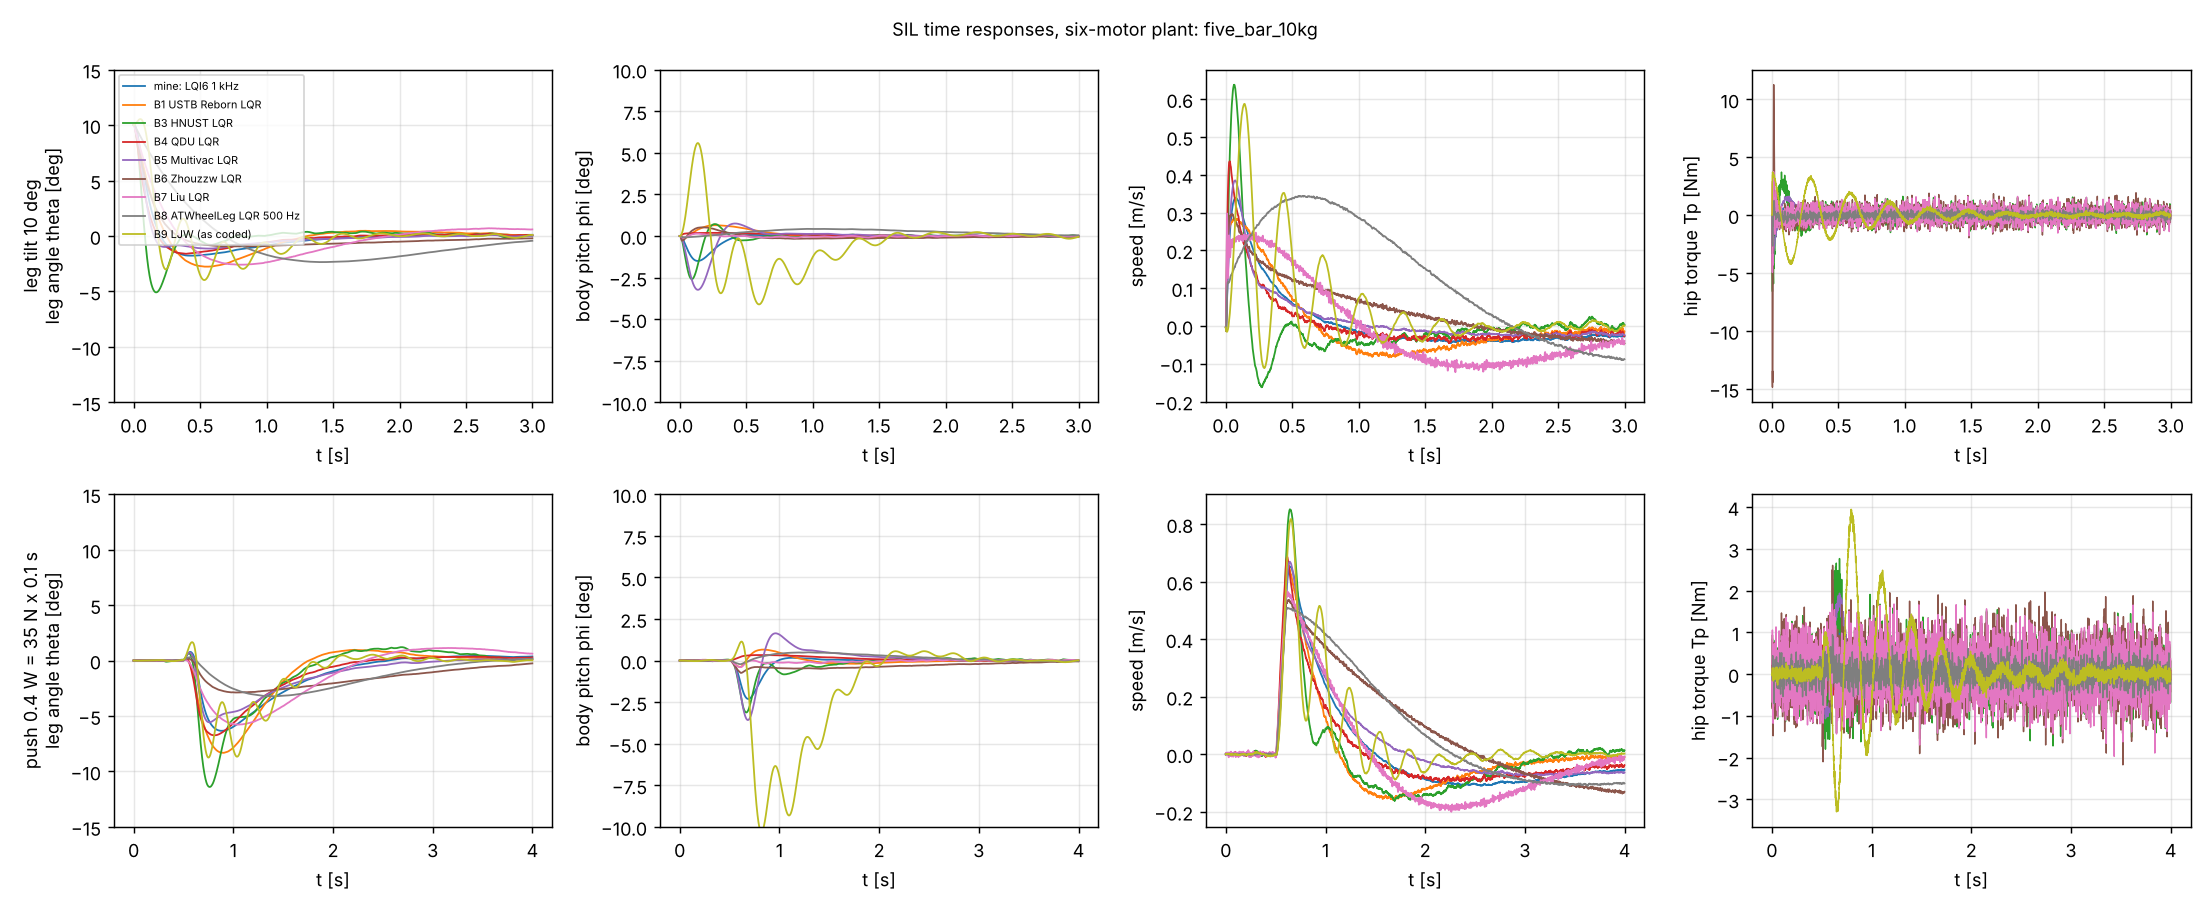
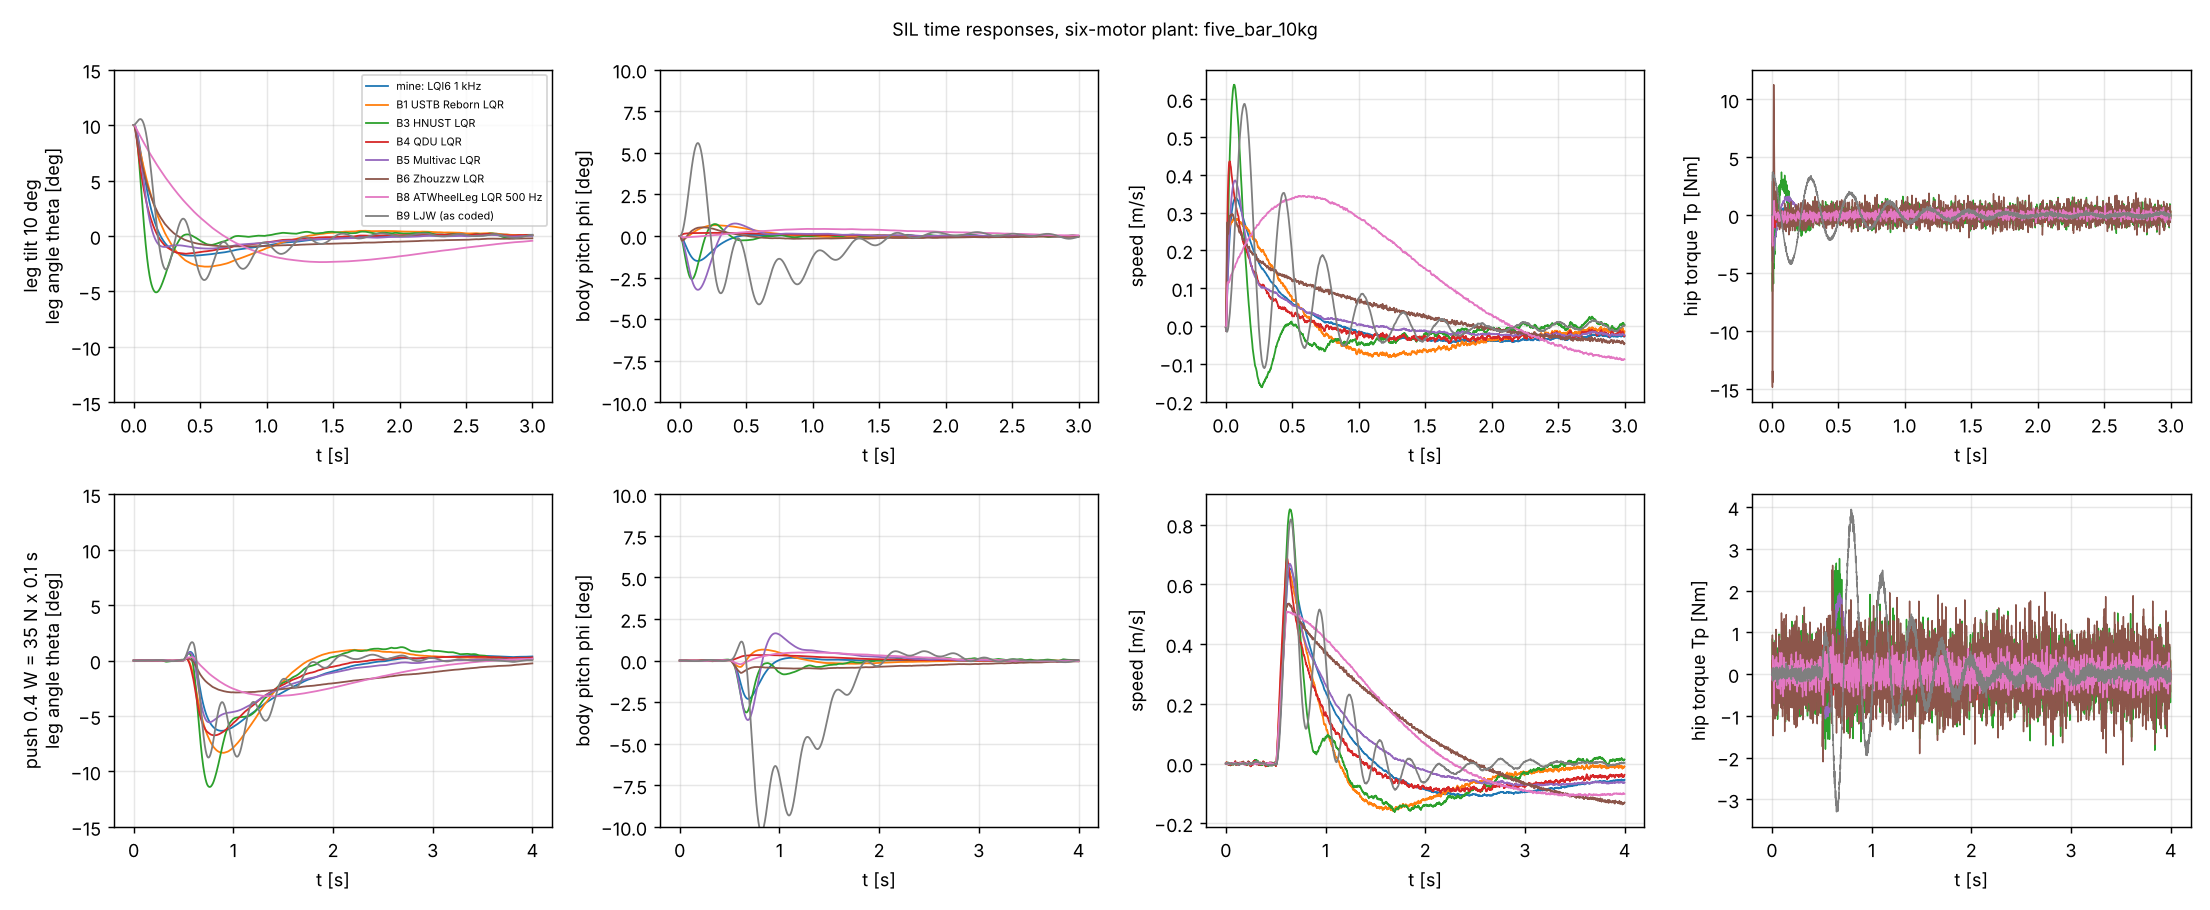
Report: drop B7 (LiuDingchuan, simulation-only) from the six-motor list, results and figures; keep its 15 kg plant
Claude-Session: https://claude.ai/code/session_0113ysMeAN3Lyk161zhY7Khb

diff --git a/balancing_robot_design/sim6/make_report6.py b/balancing_robot_design/sim6/make_report6.py
@@ -21,17 +21,16 @@ LABEL = {
     "qdu": "B4 QDU-Robomaster Wheelleg: 10상태/4출력 LQR, K(L_l,L_r) 2변수 2차",
     "multivac": "B5 Multivac11: 6상태 LQR(다리별), K(L0) 3차",
     "zhouzzw": "B6 Zhouzzw: 6상태 LQR(다리별), K(L) 3차, Q=diag(16000,…,70000,…)",
-    "liu": "B7 LiuDingchuan(Webots, 15 kg): 6상태 LQR, K(L0) 3차",
     "at": "B8 lyz1202dt ATWheelLeg: 6상태 LQR 500 Hz, 17점 게인 표",
     "ljw": "B9 LJW0401 (코드 그대로): 바퀴 T = 0.4×LQR 1행, 고관절 = CyberGear 위치 루프",
     "ljw_fullK": "B9' LJW0401 MATLAB K를 2×6 전체 상태 피드백으로 (가정; 펌웨어는 이렇게 안 씀)",
 }
 LABEL_EN = {"mine_lqi6": "mine: LQI6 1 kHz", "jerry": "B1 USTB Reborn LQR", "sky": "B2 Skythinker dLQR 5 ms", "hnust": "B3 HNUST LQR",
-            "qdu": "B4 QDU LQR", "multivac": "B5 Multivac LQR", "zhouzzw": "B6 Zhouzzw LQR", "liu": "B7 Liu LQR", "at": "B8 ATWheelLeg LQR 500 Hz",
+            "qdu": "B4 QDU LQR", "multivac": "B5 Multivac LQR", "zhouzzw": "B6 Zhouzzw LQR", "at": "B8 ATWheelLeg LQR 500 Hz",
             "ljw": "B9 LJW (as coded)", "ljw_fullK": "B9' LJW full K"}
-ORDER = ["mine_lqi6", "jerry", "sky", "hnust", "qdu", "multivac", "zhouzzw", "liu", "at", "ljw", "ljw_fullK"]
+ORDER = ["mine_lqi6", "jerry", "sky", "hnust", "qdu", "multivac", "zhouzzw", "at", "ljw", "ljw_fullK"]   # liu (B7) dropped from the report
 PLANT_TITLE = {"rm": "RM급 5절링크 로봇 (USTB Reborn 파라미터: 몸체 7.0 kg, 다리 1.9 kg, 바퀴 0.47 kg, r 76 mm, L0 0.20 m, 휠 6 Nm, 고관절 30 Nm)",
-               "liu": "Liu Webots 로봇 (몸체 12 kg, 다리 1.6 kg, 바퀴 6 kg, r 50 mm, L0 0.25 m, l = 0)",
+               "liu": "15 kg급 Webots 모델 (몸체 12 kg, 다리 1.6 kg, 바퀴 6 kg, r 50 mm, L0 0.25 m, l = 0)",
                "sky": "Skythinker 탁상 로봇 (몸체 0.33 kg, 다리 0.025 kg, 바퀴 0.25 kg, r 20 mm, L0 0.07 m, 휠 0.2 Nm, 고관절 0.3 Nm)",
                "small": "5 kg급 5절링크 가정 (몸체 3.0 kg, 다리 0.6 kg, 바퀴 1.3 kg, r 65 mm, L0 0.16 m, 휠 5 Nm, 고관절 12 Nm)",
                "large": "10 kg급 5절링크 가정 (몸체 6.5 kg, 다리 1.2 kg, 바퀴 1.3 kg, r 82.5 mm, L0 0.25 m, 휠 5 Nm, 고관절 24 Nm)"}
@@ -131,7 +130,7 @@ if __name__ == "__main__":
     md = "\n".join(out)
     open(os.path.join(HERE, "results6_tables.md"), "w").write(md); print(md)
     figdir = os.path.join(HERE, "..", "figures")
-    sel = ["mine_lqi6", "jerry", "hnust", "qdu", "multivac", "zhouzzw", "liu", "at", "ljw"]
+    sel = ["mine_lqi6", "jerry", "hnust", "qdu", "multivac", "zhouzzw", "at", "ljw"]
     for pk in ("rm", "small", "large"):
         if os.path.exists(os.path.join(HERE, f"results6_{pk}.json")):
             plot_responses(pk, sel, os.path.join(figdir, f"sil6_responses_{pk}.png")); print("plotted", pk)

diff --git a/balancing_robot_design/sim6/results6_tables.md b/balancing_robot_design/sim6/results6_tables.md
@@ -11,7 +11,6 @@
 | B4 QDU-Robomaster Wheelleg: 10상태/4출력 LQR, K(L_l,L_r) 2변수 2차 | 40.0 / 40.0 | 128 (1.4 W) | 0.99 / 68 / 0.6 / 12.5 | 5 | O / 0.02 | 0.199 / 0.203 | 1 | +++− |
 | B5 Multivac11: 6상태 LQR(다리별), K(L0) 3차 | 40.0 / 40.0 | 82 (0.9 W) | 1.67 / 48 / 2.2 / 8.9 | 15 | O / 0.04 | 0.091 / 0.217 | 1 | −−++ |
 | B6 Zhouzzw: 6상태 LQR(다리별), K(L) 3차, Q=diag(16000,…,70000,…) | 균형 불가 | | | | | | | |
-| B7 LiuDingchuan(Webots, 15 kg): 6상태 LQR, K(L0) 3차 | 27.5 / 10.0 | 55 (0.6 W) | 1.16 / 37 / 0.2 / 10.3 | 0 | O / 0.07 | 0.400 / 0.560 | 1 | +−+− |
 | B8 lyz1202dt ATWheelLeg: 6상태 LQR 500 Hz, 17점 게인 표 | 7.5 / 40.0 | 27 (0.3 W) | 1.31 / 28 / 1.5 / 8.4 | 10 | O / 0.03 | 0.044 / 0.106 | 1 | ++++ |
 | B9 LJW0401 (코드 그대로): 바퀴 T = 0.4×LQR 1행, 고관절 = CyberGear 위치 루프 | 40.0 / 40.0 | 64 (0.7 W) | 0.41 / 65 / 21.6 / 18.2 | 15 | O / 0.10 | 0.050 / 0.085 | 1 | ++−+ |
 | B9' LJW0401 MATLAB K를 2×6 전체 상태 피드백으로 (가정; 펌웨어는 이렇게 안 씀) | 40.0 / 40.0 | 46 (0.5 W) | 0.52 / 52 / 0.7 / 18.9 | 10 | O / 0.04 | 0.129 / 0.104 | 1 | ++++ |
@@ -26,7 +25,6 @@
 | B4 QDU-Robomaster Wheelleg: 10상태/4출력 LQR, K(L_l,L_r) 2변수 2차 | 40.0 / 40.0 | 128 (1.4 W) | 0.99 / 68 / 0.6 / 12.5 | 5 | O / 0.02 | 0.199 / 0.203 | 1 | +++− |
 | B5 Multivac11: 6상태 LQR(다리별), K(L0) 3차 | 40.0 / 40.0 | 110 (1.2 W) | 1.27 / 44 / 2.6 / 11.4 | 30 | O / 0.04 | 0.045 / 0.108 | 0.5 | −−++ |
 | B6 Zhouzzw: 6상태 LQR(다리별), K(L) 3차, Q=diag(16000,…,70000,…) | 40.0 / 40.0 | 46 (0.5 W) | 2.50 / 3 / 0.9 / 4.5 | 0 | O / 0.04 | 0.108 / 0.637 | 0.5 | ++++ |
-| B7 LiuDingchuan(Webots, 15 kg): 6상태 LQR, K(L0) 3차 | 27.5 / 10.0 | 55 (0.6 W) | 1.16 / 37 / 0.2 / 10.3 | 0 | O / 0.07 | 0.400 / 0.560 | 1 | +−+− |
 | B8 lyz1202dt ATWheelLeg: 6상태 LQR 500 Hz, 17점 게인 표 | 15.0 / 40.0 | 37 (0.4 W) | 1.77 / 12 / 1.0 / 5.7 | 0 | O / 0.03 | 0.092 / 0.223 | 2 | ++++ |
 | B9 LJW0401 (코드 그대로): 바퀴 T = 0.4×LQR 1행, 고관절 = CyberGear 위치 루프 | 40.0 / 40.0 | 183 (2.0 W) | 0.43 / 45 / 16.1 / 13.3 | 10 | O / 0.06 | 0.102 / 0.087 | 2 | ++−+ |
 | B9' LJW0401 MATLAB K를 2×6 전체 상태 피드백으로 (가정; 펌웨어는 이렇게 안 씀) | 40.0 / 40.0 | 73 (0.8 W) | 0.64 / 62 / 0.4 / 16.4 | 5 | O / 0.05 | 0.272 / 0.212 | 2 | +−+− |
@@ -42,13 +40,12 @@
 | B4 QDU-Robomaster Wheelleg: 10상태/4출력 LQR, K(L_l,L_r) 2변수 2차 | 0.69 s / 0.00 m / 7.0 / 3.2 Nm | 1.31 s / 0.67 m/s / 0.02 m |
 | B5 Multivac11: 6상태 LQR(다리별), K(L0) 3차 | 0.25 s / 0.02 m / 1.9 / 4.0 Nm | 1.50 s / 0.66 m/s / 0.09 m |
 | B6 Zhouzzw: 6상태 LQR(다리별), K(L) 3차, Q=diag(16000,…,70000,…) | 0.25 s / 0.04 m / 5.0 / 17.4 Nm | 2.61 s / 0.52 m/s / 0.20 m |
-| B7 LiuDingchuan(Webots, 15 kg): 6상태 LQR, K(L0) 3차 | 1.51 s / 0.00 m / 9.6 / 6.7 Nm | 3.11 s / 0.56 m/s / 0.01 m |
 | B8 lyz1202dt ATWheelLeg: 6상태 LQR 500 Hz, 17점 게인 표 | 2.57 s / 0.22 m / 2.7 / 2.8 Nm | 2.24 s / 0.50 m/s / 0.23 m |
 | B9 LJW0401 (코드 그대로): 바퀴 T = 0.4×LQR 1행, 고관절 = CyberGear 위치 루프 | 0.74 s / 0.10 m / 2.8 / 3.6 Nm | 0.98 s / 0.66 m/s / 0.20 m |
 | B9' LJW0401 MATLAB K를 2×6 전체 상태 피드백으로 (가정; 펌웨어는 이렇게 안 씀) | 0.94 s / 0.00 m / 7.0 / 1.7 Nm | 2.09 s / 0.66 m/s / 0.00 m |
 
 
-**Liu Webots 로봇 (몸체 12 kg, 다리 1.6 kg, 바퀴 6 kg, r 50 mm, L0 0.25 m, l = 0)** — 로봇 무게 W = 192 N, 속도 스텝 0.8 m/s
+**15 kg급 Webots 모델 (몸체 12 kg, 다리 1.6 kg, 바퀴 6 kg, r 50 mm, L0 0.25 m, l = 0)** — 로봇 무게 W = 192 N, 속도 스텝 0.8 m/s
 
 *(a) 공개된 게인 그대로 (출력 스케일 1, 센서·모터 부호만 탐색)*
 
@@ -61,7 +58,6 @@
 | B4 QDU-Robomaster Wheelleg: 10상태/4출력 LQR, K(L_l,L_r) 2변수 2차 | 40.0 / 40.0 | 250 (1.3 W) | 0.73 / 51 / 0.5 / 12.8 | 5 | O / 0.02 | 0.148 / 0.197 | 1 | +++− |
 | B5 Multivac11: 6상태 LQR(다리별), K(L0) 3차 | 40.0 / 40.0 | 212 (1.1 W) | 1.37 / 63 / 4.4 / 8.8 | 5 | O / 0.08 | 0.096 / 0.191 | 1 | −++− |
 | B6 Zhouzzw: 6상태 LQR(다리별), K(L) 3차, Q=diag(16000,…,70000,…) | 40.0 / 40.0 | 96 (0.5 W) | 2.46 / 7 / 1.2 / 4.2 | 5 | O / 0.59 | 14.046 / 65.395 | 1 | ++++ |
-| B7 LiuDingchuan(Webots, 15 kg): 6상태 LQR, K(L0) 3차 | 25.0 / 40.0 | 96 (0.5 W) | 0.93 / 24 / 0.4 / 10.0 | 5 | O / 0.07 | 0.218 / 0.508 | 1 | ++++ |
 | B8 lyz1202dt ATWheelLeg: 6상태 LQR 500 Hz, 17점 게인 표 | 2.5 / 40.0 | 19 (0.1 W) | 실패 | 10 | O / 0.04 | 0.044 / 0.117 | 1 | ++++ |
 | B9 LJW0401 (코드 그대로): 바퀴 T = 0.4×LQR 1행, 고관절 = CyberGear 위치 루프 | 5.0 / 40.0 | 19 (0.1 W) | 실패 | 20 | O / 0.09 | 0.040 / 0.084 | 1 | ++−+ |
 | B9' LJW0401 MATLAB K를 2×6 전체 상태 피드백으로 (가정; 펌웨어는 이렇게 안 씀) | 35.0 / 40.0 | 77 (0.4 W) | 0.40 / 49 / 0.9 / 20.7 | 20 | O / 0.05 | 0.101 / 0.104 | 1 | ++++ |
@@ -76,7 +72,6 @@
 | B4 QDU-Robomaster Wheelleg: 10상태/4출력 LQR, K(L_l,L_r) 2변수 2차 | 40.0 / 40.0 | 250 (1.3 W) | 0.73 / 51 / 0.5 / 12.8 | 5 | O / 0.02 | 0.148 / 0.197 | 1 | +++− |
 | B5 Multivac11: 6상태 LQR(다리별), K(L0) 3차 | 40.0 / 40.0 | 212 (1.1 W) | 1.37 / 63 / 4.4 / 8.8 | 5 | O / 0.08 | 0.096 / 0.191 | 1 | −++− |
 | B6 Zhouzzw: 6상태 LQR(다리별), K(L) 3차, Q=diag(16000,…,70000,…) | 40.0 / 40.0 | 96 (0.5 W) | 2.46 / 7 / 1.2 / 4.2 | 5 | O / 0.59 | 14.046 / 65.395 | 1 | ++++ |
-| B7 LiuDingchuan(Webots, 15 kg): 6상태 LQR, K(L0) 3차 | 25.0 / 40.0 | 96 (0.5 W) | 0.93 / 24 / 0.4 / 10.0 | 5 | O / 0.07 | 0.218 / 0.508 | 1 | ++++ |
 | B8 lyz1202dt ATWheelLeg: 6상태 LQR 500 Hz, 17점 게인 표 | 12.5 / 40.0 | 58 (0.3 W) | 1.31 / 20 / 1.2 / 6.7 | 0 | O / 0.04 | 0.102 / 0.283 | 2 | ++++ |
 | B9 LJW0401 (코드 그대로): 바퀴 T = 0.4×LQR 1행, 고관절 = CyberGear 위치 루프 | 40.0 / 40.0 | 385 (2.0 W) | 0.45 / 40 / 15.0 / 14.2 | 20 | O / 0.05 | 0.080 / 0.084 | 2 | ++−+ |
 | B9' LJW0401 MATLAB K를 2×6 전체 상태 피드백으로 (가정; 펌웨어는 이렇게 안 씀) | 40.0 / 40.0 | 154 (0.8 W) | 0.58 / 68 / 0.4 / 14.3 | 0 | O / 0.06 | 0.922 / 0.948 | 8 | ++++ |
@@ -92,7 +87,6 @@
 | B4 QDU-Robomaster Wheelleg: 10상태/4출력 LQR, K(L_l,L_r) 2변수 2차 | 0.75 s / 0.00 m / 7.4 / 2.9 Nm | 1.11 s / 0.82 m/s / 0.02 m |
 | B5 Multivac11: 6상태 LQR(다리별), K(L0) 3차 | 0.57 s / 0.03 m / 7.9 / 8.0 Nm | 1.54 s / 0.86 m/s / 0.12 m |
 | B6 Zhouzzw: 6상태 LQR(다리별), K(L) 3차, Q=diag(16000,…,70000,…) | 0.86 s / 0.03 m / 20.0 / 80.0 Nm | 2.32 s / 0.65 m/s / 0.16 m |
-| B7 LiuDingchuan(Webots, 15 kg): 6상태 LQR, K(L0) 3차 | 1.40 s / 0.00 m / 9.9 / 4.8 Nm | 2.75 s / 0.66 m/s / 0.00 m |
 | B8 lyz1202dt ATWheelLeg: 6상태 LQR 500 Hz, 17점 게인 표 | 2.47 s / 0.18 m / 3.4 / 2.5 Nm | 2.11 s / 0.61 m/s / 0.17 m |
 | B9 LJW0401 (코드 그대로): 바퀴 T = 0.4×LQR 1행, 고관절 = CyberGear 위치 루프 | 0.90 s / 0.12 m / 3.1 / 3.6 Nm | 0.91 s / 0.80 m/s / 0.20 m |
 | B9' LJW0401 MATLAB K를 2×6 전체 상태 피드백으로 (가정; 펌웨어는 이렇게 안 씀) | 0.89 s / 0.00 m / 20.0 / 5.3 Nm | 1.91 s / 0.78 m/s / 0.00 m |
@@ -111,7 +105,6 @@
 | B4 QDU-Robomaster Wheelleg: 10상태/4출력 LQR, K(L_l,L_r) 2변수 2차 | 균형 불가 | | | | | | | |
 | B5 Multivac11: 6상태 LQR(다리별), K(L0) 3차 | 균형 불가 | | | | | | | |
 | B6 Zhouzzw: 6상태 LQR(다리별), K(L) 3차, Q=diag(16000,…,70000,…) | 균형 불가 | | | | | | | |
-| B7 LiuDingchuan(Webots, 15 kg): 6상태 LQR, K(L0) 3차 | 균형 불가 | | | | | | | |
 | B8 lyz1202dt ATWheelLeg: 6상태 LQR 500 Hz, 17점 게인 표 | 균형 불가 | | | | | | | |
 | B9 LJW0401 (코드 그대로): 바퀴 T = 0.4×LQR 1행, 고관절 = CyberGear 위치 루프 | 균형 불가 | | | | | | | |
 | B9' LJW0401 MATLAB K를 2×6 전체 상태 피드백으로 (가정; 펌웨어는 이렇게 안 씀) | 균형 불가 | | | | | | | |
@@ -126,7 +119,6 @@
 | B4 QDU-Robomaster Wheelleg: 10상태/4출력 LQR, K(L_l,L_r) 2변수 2차 | 40.0 / 40.0 | 4 (0.7 W) | 0.36 / 57 / 1.1 / 5.5 | 5 | O / 1.06 | 0.329 / 0.570 | 0.0625 | +−++ |
 | B5 Multivac11: 6상태 LQR(다리별), K(L0) 3차 | 40.0 / 40.0 | 6 (1.1 W) | -0.47 / 155 / 3.9 / 5.6 | 5 | O / 3.90 | 0.373 / 0.509 | 0.25 | −+−+ |
 | B6 Zhouzzw: 6상태 LQR(다리별), K(L) 3차, Q=diag(16000,…,70000,…) | 균형 불가 | | | | | | | |
-| B7 LiuDingchuan(Webots, 15 kg): 6상태 LQR, K(L0) 3차 | 균형 불가 | | | | | | | |
 | B8 lyz1202dt ATWheelLeg: 6상태 LQR 500 Hz, 17점 게인 표 | 5.0 / 40.0 | 1 (0.2 W) | 0.67 / 81 / 1.7 / 3.4 | 0 | O / 1.01 | 0.357 / 0.548 | 0.0625 | ++++ |
 | B9 LJW0401 (코드 그대로): 바퀴 T = 0.4×LQR 1행, 고관절 = CyberGear 위치 루프 | 40.0 / 40.0 | 2 (0.3 W) | 0.17 / 87 / 4.7 / 4.3 | — | O / 3.96 | 0.196 / 0.596 | 0.25 | ++−+ |
 | B9' LJW0401 MATLAB K를 2×6 전체 상태 피드백으로 (가정; 펌웨어는 이렇게 안 씀) | 40.0 / 40.0 | 2 (0.4 W) | 0.58 / 24 / 0.1 / 6.7 | 0 | O / 0.06 | 0.004 / 0.007 | 0.0625 | ++++ |
@@ -142,7 +134,6 @@
 | B4 QDU-Robomaster Wheelleg: 10상태/4출력 LQR, K(L_l,L_r) 2변수 2차 | 0.82 s / 0.00 m / 0.4 / 0.6 Nm | 1.31 s / 0.74 m/s / 0.02 m |
 | B5 Multivac11: 6상태 LQR(다리별), K(L0) 3차 | 0.08 s / 0.01 m / 0.4 / 0.6 Nm | 1.28 s / 0.76 m/s / 0.07 m |
 | B6 Zhouzzw: 6상태 LQR(다리별), K(L) 3차, Q=diag(16000,…,70000,…) | 균형 불가 | |
-| B7 LiuDingchuan(Webots, 15 kg): 6상태 LQR, K(L0) 3차 | 균형 불가 | |
 | B8 lyz1202dt ATWheelLeg: 6상태 LQR 500 Hz, 17점 게인 표 | 실패 | 4.48 s / 0.79 m/s / 0.17 m |
 | B9 LJW0401 (코드 그대로): 바퀴 T = 0.4×LQR 1행, 고관절 = CyberGear 위치 루프 | 4.99 s / 0.17 m / 0.4 / 0.6 Nm | 4.49 s / 0.82 m/s / 0.46 m |
 | B9' LJW0401 MATLAB K를 2×6 전체 상태 피드백으로 (가정; 펌웨어는 이렇게 안 씀) | 1.00 s / 0.00 m / 0.1 / 0.1 Nm | 2.00 s / 0.64 m/s / 0.00 m |
@@ -161,7 +152,6 @@
 | B4 QDU-Robomaster Wheelleg: 10상태/4출력 LQR, K(L_l,L_r) 2변수 2차 | 40.0 / 40.0 | 58 (1.2 W) | 1.13 / 65 / 1.4 / 12.6 | 0 | O / 0.02 | 0.213 / 0.232 | 1 | +++− |
 | B5 Multivac11: 6상태 LQR(다리별), K(L0) 3차 | 40.0 / 40.0 | 34 (0.7 W) | 1.68 / 46 / 2.2 / 9.6 | 10 | O / 0.05 | 0.085 / 0.208 | 1 | −−++ |
 | B6 Zhouzzw: 6상태 LQR(다리별), K(L) 3차, Q=diag(16000,…,70000,…) | 균형 불가 | | | | | | | |
-| B7 LiuDingchuan(Webots, 15 kg): 6상태 LQR, K(L0) 3차 | 12.5 / 2.5 | 24 (0.5 W) | 1.24 / 42 / 0.3 / 10.6 | 0 | O / 0.09 | 1.123 / 1.402 | 1 | +−+− |
 | B8 lyz1202dt ATWheelLeg: 6상태 LQR 500 Hz, 17점 게인 표 | 15.0 / 40.0 | 19 (0.4 W) | 2.00 / 5 / 1.1 / 5.6 | 0 | O / 0.03 | 0.047 / 0.114 | 1 | ++++ |
 | B9 LJW0401 (코드 그대로): 바퀴 T = 0.4×LQR 1행, 고관절 = CyberGear 위치 루프 | 40.0 / 40.0 | 96 (2.0 W) | 0.87 / 32 / 13.3 / 12.4 | 5 | O / 0.04 | 0.040 / 0.087 | 1 | ++−+ |
 | B9' LJW0401 MATLAB K를 2×6 전체 상태 피드백으로 (가정; 펌웨어는 이렇게 안 씀) | 40.0 / 40.0 | 24 (0.5 W) | 0.68 / 38 / 0.3 / 17.7 | 5 | O / 0.05 | 0.107 / 0.103 | 1 | ++++ |
@@ -176,7 +166,6 @@
 | B4 QDU-Robomaster Wheelleg: 10상태/4출력 LQR, K(L_l,L_r) 2변수 2차 | 40.0 / 40.0 | 58 (1.2 W) | 1.13 / 65 / 1.4 / 12.6 | 0 | O / 0.02 | 0.213 / 0.232 | 1 | +++− |
 | B5 Multivac11: 6상태 LQR(다리별), K(L0) 3차 | 40.0 / 40.0 | 48 (1.0 W) | 1.28 / 35 / 3.8 / 13.3 | 20 | O / 0.05 | 0.021 / 0.050 | 0.25 | −−++ |
 | B6 Zhouzzw: 6상태 LQR(다리별), K(L) 3차, Q=diag(16000,…,70000,…) | 40.0 / 40.0 | 19 (0.4 W) | 2.50 / -5 / 0.9 / 4.8 | 0 | O / 0.04 | 0.053 / 0.389 | 0.25 | ++++ |
-| B7 LiuDingchuan(Webots, 15 kg): 6상태 LQR, K(L0) 3차 | 12.5 / 2.5 | 24 (0.5 W) | 1.24 / 42 / 0.3 / 10.6 | 0 | O / 0.09 | 1.123 / 1.402 | 1 | +−+− |
 | B8 lyz1202dt ATWheelLeg: 6상태 LQR 500 Hz, 17점 게인 표 | 15.0 / 40.0 | 19 (0.4 W) | 2.00 / 5 / 1.1 / 5.6 | 0 | O / 0.03 | 0.047 / 0.114 | 1 | ++++ |
 | B9 LJW0401 (코드 그대로): 바퀴 T = 0.4×LQR 1행, 고관절 = CyberGear 위치 루프 | 40.0 / 40.0 | 96 (2.0 W) | 0.87 / 32 / 13.3 / 12.4 | 5 | O / 0.04 | 0.040 / 0.087 | 1 | ++−+ |
 | B9' LJW0401 MATLAB K를 2×6 전체 상태 피드백으로 (가정; 펌웨어는 이렇게 안 씀) | 40.0 / 40.0 | 24 (0.5 W) | 0.68 / 38 / 0.3 / 17.7 | 5 | O / 0.05 | 0.107 / 0.103 | 1 | ++++ |
@@ -192,7 +181,6 @@
 | B4 QDU-Robomaster Wheelleg: 10상태/4출력 LQR, K(L_l,L_r) 2변수 2차 | 0.69 s / 0.00 m / 6.4 / 3.6 Nm | 1.44 s / 0.64 m/s / 0.02 m |
 | B5 Multivac11: 6상태 LQR(다리별), K(L0) 3차 | 0.50 s / 0.01 m / 0.8 / 1.9 Nm | 1.60 s / 0.71 m/s / 0.10 m |
 | B6 Zhouzzw: 6상태 LQR(다리별), K(L) 3차, Q=diag(16000,…,70000,…) | 0.26 s / 0.05 m / 2.2 / 11.2 Nm | 2.83 s / 0.55 m/s / 0.23 m |
-| B7 LiuDingchuan(Webots, 15 kg): 6상태 LQR, K(L0) 3차 | 1.60 s / 0.01 m / 9.0 / 11.3 Nm | 3.51 s / 0.57 m/s / 0.03 m |
 | B8 lyz1202dt ATWheelLeg: 6상태 LQR 500 Hz, 17점 게인 표 | 2.72 s / 0.24 m / 1.3 / 1.4 Nm | 2.56 s / 0.53 m/s / 0.32 m |
 | B9 LJW0401 (코드 그대로): 바퀴 T = 0.4×LQR 1행, 고관절 = CyberGear 위치 루프 | 0.85 s / 0.10 m / 1.2 / 3.6 Nm | 1.20 s / 0.67 m/s / 0.28 m |
 | B9' LJW0401 MATLAB K를 2×6 전체 상태 피드백으로 (가정; 펌웨어는 이렇게 안 씀) | 1.03 s / 0.00 m / 2.9 / 0.7 Nm | 2.28 s / 0.63 m/s / 0.00 m |
@@ -211,7 +199,6 @@
 | B4 QDU-Robomaster Wheelleg: 10상태/4출력 LQR, K(L_l,L_r) 2변수 2차 | 40.0 / 40.0 | 115 (1.3 W) | 1.03 / 64 / 0.5 / 11.7 | 10 | O / 0.02 | 0.217 / 0.196 | 1 | +++− |
 | B5 Multivac11: 6상태 LQR(다리별), K(L0) 3차 | 40.0 / 40.0 | 79 (0.9 W) | 1.73 / 41 / 1.8 / 7.5 | 15 | O / 0.04 | 0.098 / 0.221 | 1 | −−++ |
 | B6 Zhouzzw: 6상태 LQR(다리별), K(L) 3차, Q=diag(16000,…,70000,…) | 7.5 / 37.5 | 9 (0.1 W) | 실패 | 0 | O / 0.16 | 3.325 / 38.487 | 1 | ++++ |
-| B7 LiuDingchuan(Webots, 15 kg): 6상태 LQR, K(L0) 3차 | 25.0 / 40.0 | 53 (0.6 W) | 1.16 / 40 / 0.2 / 10.0 | 0 | O / 0.06 | 0.381 / 0.523 | 1 | ++++ |
 | B8 lyz1202dt ATWheelLeg: 6상태 LQR 500 Hz, 17점 게인 표 | 7.5 / 40.0 | 26 (0.3 W) | 1.25 / 31 / 1.5 / 8.6 | 15 | O / 0.03 | 0.043 / 0.111 | 1 | ++++ |
 | B9 LJW0401 (코드 그대로): 바퀴 T = 0.4×LQR 1행, 고관절 = CyberGear 위치 루프 | 40.0 / 40.0 | 97 (1.1 W) | 0.50 / 58 / 17.7 / 14.6 | 5 | O / 0.13 | 0.063 / 0.095 | 1 | +−−− |
 | B9' LJW0401 MATLAB K를 2×6 전체 상태 피드백으로 (가정; 펌웨어는 이렇게 안 씀) | 40.0 / 40.0 | 44 (0.5 W) | 0.51 / 55 / 0.5 / 18.1 | 15 | O / 0.04 | 0.150 / 0.104 | 1 | ++++ |
@@ -226,7 +213,6 @@
 | B4 QDU-Robomaster Wheelleg: 10상태/4출력 LQR, K(L_l,L_r) 2변수 2차 | 40.0 / 40.0 | 115 (1.3 W) | 1.03 / 64 / 0.5 / 11.7 | 10 | O / 0.02 | 0.217 / 0.196 | 1 | +++− |
 | B5 Multivac11: 6상태 LQR(다리별), K(L0) 3차 | 40.0 / 40.0 | 97 (1.1 W) | 1.36 / 39 / 2.4 / 9.6 | 30 | O / 0.04 | 0.049 / 0.110 | 0.5 | −−++ |
 | B6 Zhouzzw: 6상태 LQR(다리별), K(L) 3차, Q=diag(16000,…,70000,…) | 40.0 / 40.0 | 44 (0.5 W) | 2.50 / 1 / 0.7 / 4.3 | 0 | O / 0.04 | 0.106 / 0.596 | 0.5 | ++++ |
-| B7 LiuDingchuan(Webots, 15 kg): 6상태 LQR, K(L0) 3차 | 25.0 / 40.0 | 53 (0.6 W) | 1.16 / 40 / 0.2 / 10.0 | 0 | O / 0.06 | 0.381 / 0.523 | 1 | ++++ |
 | B8 lyz1202dt ATWheelLeg: 6상태 LQR 500 Hz, 17점 게인 표 | 15.0 / 40.0 | 35 (0.4 W) | 1.72 / 12 / 0.9 / 5.6 | 5 | O / 0.03 | 0.088 / 0.231 | 2 | ++++ |
 | B9 LJW0401 (코드 그대로): 바퀴 T = 0.4×LQR 1행, 고관절 = CyberGear 위치 루프 | 40.0 / 40.0 | 97 (1.1 W) | 0.50 / 58 / 17.7 / 14.6 | 5 | O / 0.13 | 0.063 / 0.095 | 1 | +−−− |
 | B9' LJW0401 MATLAB K를 2×6 전체 상태 피드백으로 (가정; 펌웨어는 이렇게 안 씀) | 40.0 / 40.0 | 71 (0.8 W) | 0.61 / 63 / 0.4 / 16.0 | 5 | O / 0.04 | 0.312 / 0.210 | 2 | ++++ |
@@ -242,7 +228,6 @@
 | B4 QDU-Robomaster Wheelleg: 10상태/4출력 LQR, K(L_l,L_r) 2변수 2차 | 0.74 s / 0.00 m / 7.6 / 2.9 Nm | 1.32 s / 0.69 m/s / 0.02 m |
 | B5 Multivac11: 6상태 LQR(다리별), K(L0) 3차 | 0.70 s / 0.03 m / 2.2 / 4.0 Nm | 1.56 s / 0.67 m/s / 0.10 m |
 | B6 Zhouzzw: 6상태 LQR(다리별), K(L) 3차, Q=diag(16000,…,70000,…) | 0.24 s / 0.04 m / 5.4 / 14.9 Nm | 2.55 s / 0.54 m/s / 0.19 m |
-| B7 LiuDingchuan(Webots, 15 kg): 6상태 LQR, K(L0) 3차 | 1.49 s / 0.00 m / 10.0 / 4.9 Nm | 3.02 s / 0.57 m/s / 0.01 m |
 | B8 lyz1202dt ATWheelLeg: 6상태 LQR 500 Hz, 17점 게인 표 | 2.54 s / 0.22 m / 3.0 / 2.7 Nm | 2.22 s / 0.51 m/s / 0.23 m |
 | B9 LJW0401 (코드 그대로): 바퀴 T = 0.4×LQR 1행, 고관절 = CyberGear 위치 루프 | 1.24 s / 0.13 m / 2.3 / 4.2 Nm | 1.28 s / 0.82 m/s / 0.22 m |
 | B9' LJW0401 MATLAB K를 2×6 전체 상태 피드백으로 (가정; 펌웨어는 이렇게 안 씀) | 0.94 s / 0.00 m / 8.0 / 1.4 Nm | 2.03 s / 0.68 m/s / 0.00 m |

diff --git a/balancing_robot_design/README.md b/balancing_robot_design/README.md
@@ -5,7 +5,7 @@ Self-balancing robot (ROS 2 + Teensy, direct-drive wheels) design study.
 | path | what |
 |---|---|
 | `설계보고서.md` | **main report (Korean)**: reference-project analysis, ROS 2 latency fact-check, hardware architecture, controller selection with numbers |
-| `제어기_비교보고서.md` | **controller comparison report (Korean)**: survey of all open-source wheel-leg balance code, SIL benchmark of the 9 Ascento-like (4-motor) projects + upkie (§6) + the 10 five-bar six-motor projects (§8) against my controller |
+| `제어기_비교보고서.md` | **controller comparison report (Korean)**: survey of all open-source wheel-leg balance code, SIL benchmark of the 9 Ascento-like (4-motor) projects + upkie (§6) + the 9 five-bar/serial six-motor projects (§8) against my controller |
 | `시뮬레이션_환경조사.md` | **simulation-environment survey (Korean)**: which surveyed repos ship a physics simulator (MuJoCo / PyBullet / Webots / Simscape), what is missing, what runs on Ubuntu 24.04 (verified runs of fern, WheelLeg_LQR, kuafu, ATWheelLeg core) and install recipes |
 | `sil/` | 4-motor SIL harness: every ported balance law as C (`controllers/*.c`, one `.so` each) or Python (upkie MPC), `sil_harness.py`, `make_report.py`, `results_{small,large}.json` |
 | `sim6/` | six-motor (five-bar leg) SIL: three-body wheel-leg plant `plant6.py` (validated against USTB's published gains), ported gain tables `controllers6.py`, `sil6_harness.py`, `make_report6.py`, `results6_<plant>.json` |
